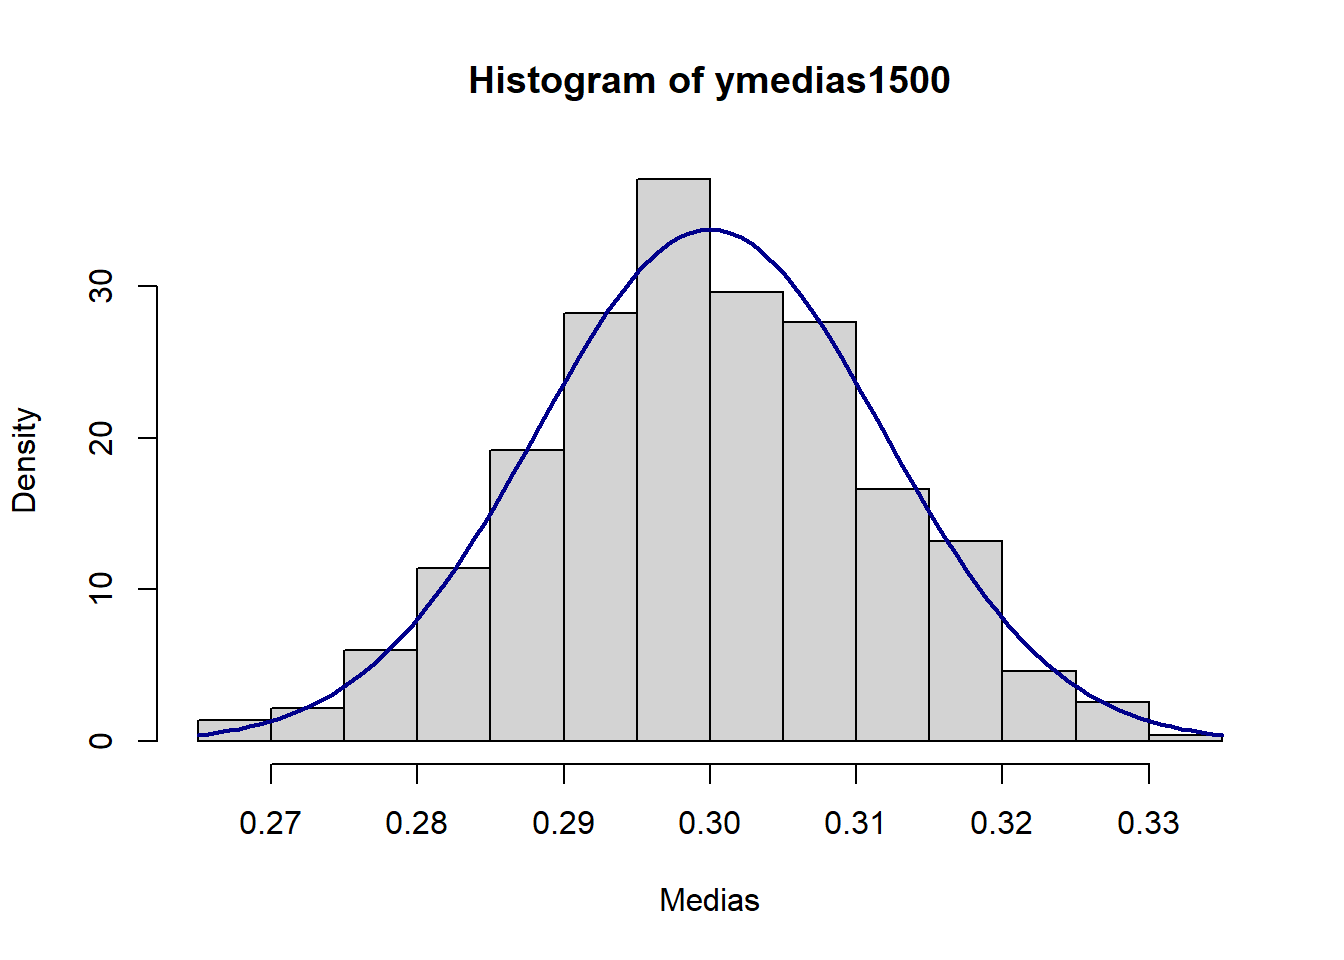
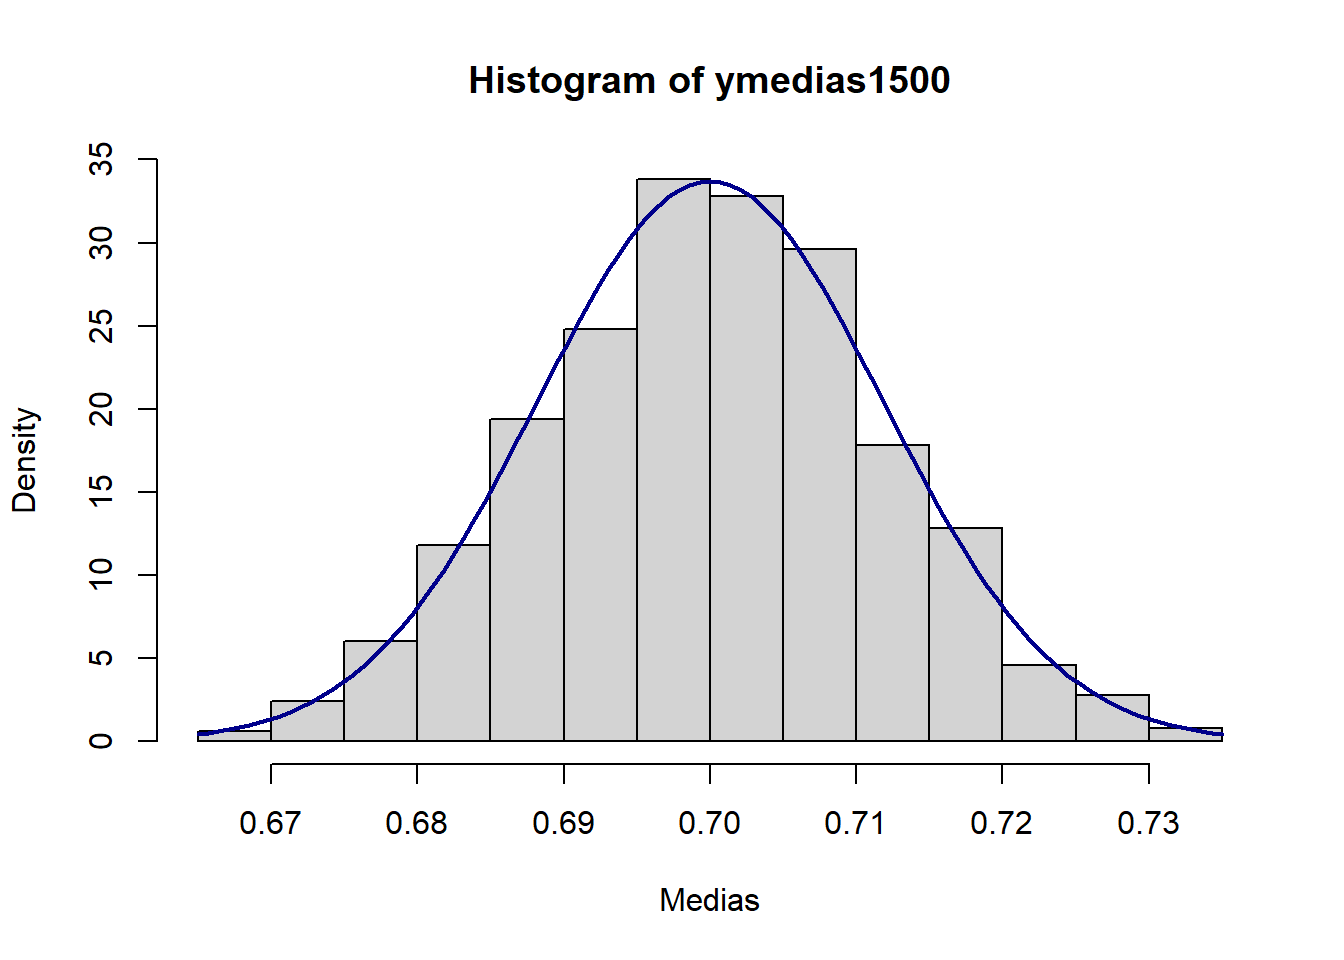
add respuestas tarea 1

diff --git a/docs/tareas/tarea-1-respuestas.html b/docs/tareas/tarea-1-respuestas.html
@@ -429,16 +429,16 @@ window.Quarto = {
 <span id="cb9-2"><a href="#cb9-2" aria-hidden="true" tabindex="-1"></a></span>
 <span id="cb9-3"><a href="#cb9-3" aria-hidden="true" tabindex="-1"></a>reps <span class="ot">&lt;-</span> <span class="dv">1000</span></span>
 <span id="cb9-4"><a href="#cb9-4" aria-hidden="true" tabindex="-1"></a>n <span class="ot">&lt;-</span> <span class="dv">1500</span></span>
-<span id="cb9-5"><a href="#cb9-5" aria-hidden="true" tabindex="-1"></a>p <span class="ot">&lt;-</span> <span class="fl">0.3</span></span>
+<span id="cb9-5"><a href="#cb9-5" aria-hidden="true" tabindex="-1"></a>p <span class="ot">&lt;-</span> <span class="fl">0.7</span></span>
 <span id="cb9-6"><a href="#cb9-6" aria-hidden="true" tabindex="-1"></a>v <span class="ot">&lt;-</span> p<span class="sc">*</span>(<span class="dv">1</span><span class="sc">-</span>p)<span class="sc">/</span>n</span>
 <span id="cb9-7"><a href="#cb9-7" aria-hidden="true" tabindex="-1"></a></span>
 <span id="cb9-8"><a href="#cb9-8" aria-hidden="true" tabindex="-1"></a>ymedias1500 <span class="ot">&lt;-</span> <span class="fu">numeric</span>(reps)</span>
 <span id="cb9-9"><a href="#cb9-9" aria-hidden="true" tabindex="-1"></a><span class="cf">for</span> (i <span class="cf">in</span> <span class="dv">1</span><span class="sc">:</span>reps){</span>
-<span id="cb9-10"><a href="#cb9-10" aria-hidden="true" tabindex="-1"></a> sample <span class="ot">&lt;-</span> <span class="fu">rbernoulli</span>(n, p)</span>
+<span id="cb9-10"><a href="#cb9-10" aria-hidden="true" tabindex="-1"></a> sample <span class="ot">&lt;-</span> <span class="fu">rbinom</span>(n, <span class="dv">1</span>, p)</span>
 <span id="cb9-11"><a href="#cb9-11" aria-hidden="true" tabindex="-1"></a> ymedias1500[i]<span class="ot">&lt;-</span><span class="fu">mean</span>(sample)</span>
 <span id="cb9-12"><a href="#cb9-12" aria-hidden="true" tabindex="-1"></a>}</span></code><button title="Copiar al portapapeles" class="code-copy-button"><i class="bi"></i></button></pre></div>
 </div>
-<p><em>Graficamos junto con una densidad <span class="math inline">\(N(0.3, \sqrt{0.21/1500})\)</span>:</em></p>
+<p><em>Graficamos junto con una densidad <span class="math inline">\(N(0.7, \sqrt{0.21/1500})\)</span>:</em></p>
 <div class="cell">
 <div class="sourceCode cell-code" id="cb10"><pre class="sourceCode r code-with-copy"><code class="sourceCode r"><span id="cb10-1"><a href="#cb10-1" aria-hidden="true" tabindex="-1"></a><span class="fu">hist</span>(ymedias1500, <span class="at">breaks=</span><span class="dv">20</span>, <span class="at">prob=</span><span class="cn">TRUE</span>, </span>
 <span id="cb10-2"><a href="#cb10-2" aria-hidden="true" tabindex="-1"></a>     <span class="at">xlab=</span><span class="st">"Medias"</span>)</span>
